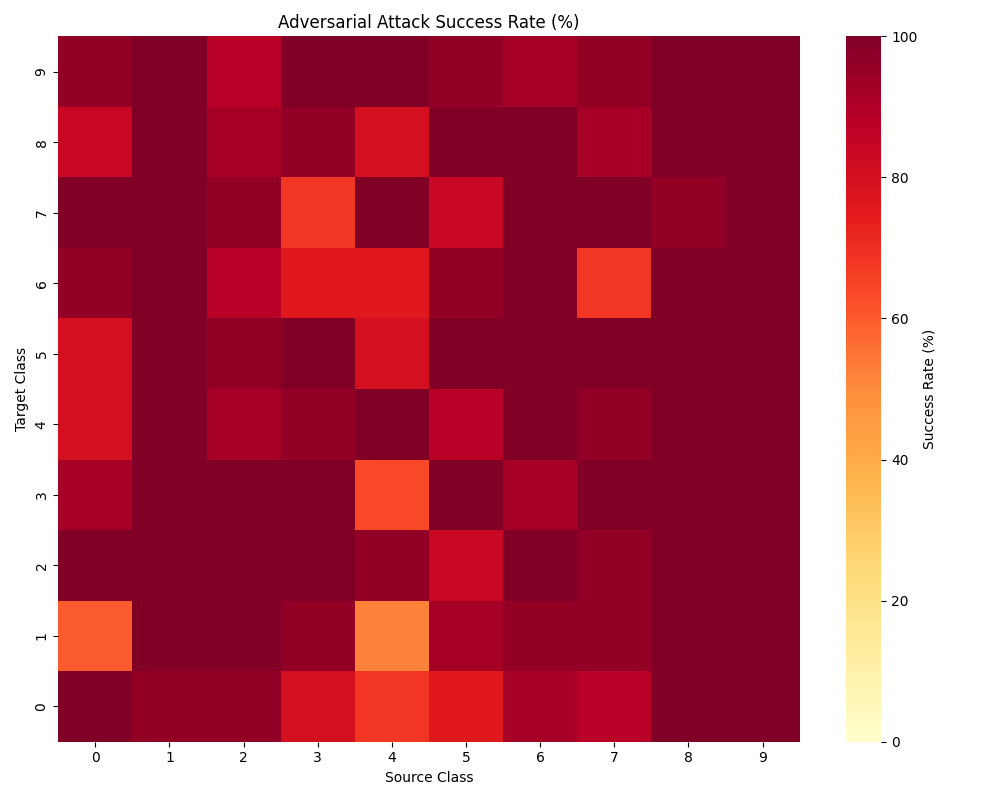
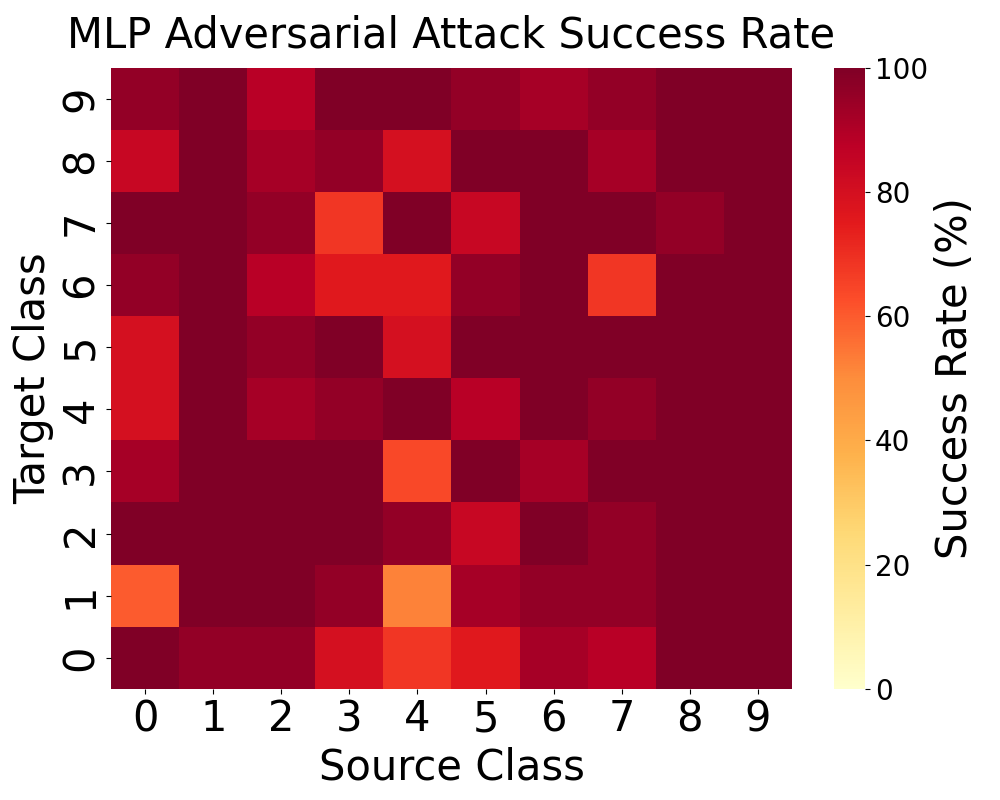
new matrix images

diff --git a/testing.py b/testing.py
@@ -167,13 +167,26 @@ classes = [str(i) for i in range(10)]
 plt.figure(figsize=(10, 8))
 ax = sns.heatmap(success_percent, annot=False, fmt=".0f", cmap="YlOrRd", xticklabels=classes, yticklabels=classes, vmin=0, vmax=100, cbar_kws={'label': 'Success Rate (%)'})
 ax.invert_yaxis()
+cbar = ax.collections[0].colorbar
+cbar.set_label('Success Rate (%)', fontsize=30)
+cbar.ax.tick_params(labelsize=20)
 # Force color bar range from 0 to 100
 #ax.collections[0].colorbar.set_clim(0, 100)
 
+ax.set_xticklabels(ax.get_xticklabels(), fontsize=30)
+ax.set_yticklabels(ax.get_yticklabels(), fontsize=30)
+ax.set_xlabel("Source Class", fontsize=30)
+ax.set_ylabel("Target Class", fontsize=30)
+
 # Labels and titles
-plt.xlabel("Source Class")
-plt.ylabel("Target Class")
-plt.title("Adversarial Attack Success Rate (%)") #\n(25 attempts per pair)"
+# plt.xlabel("Source Class")
+# plt.ylabel("Target Class")
+if convolutional:
+    #plt.title("CNN Adversarial Attack Success Rate (%)") #\n(25 attempts per pair)"
+    ax.set_title("CNN Adversarial Attack Success Rate", fontsize=30, pad=15)
+else:
+    # plt.title("MLP Adversarial Attack Success Rate (%)") #\n(25 attempts per pair)"
+    ax.set_title("MLP Adversarial Attack Success Rate", fontsize=30, pad=15)
 plt.tight_layout()
 plt.show()
 
